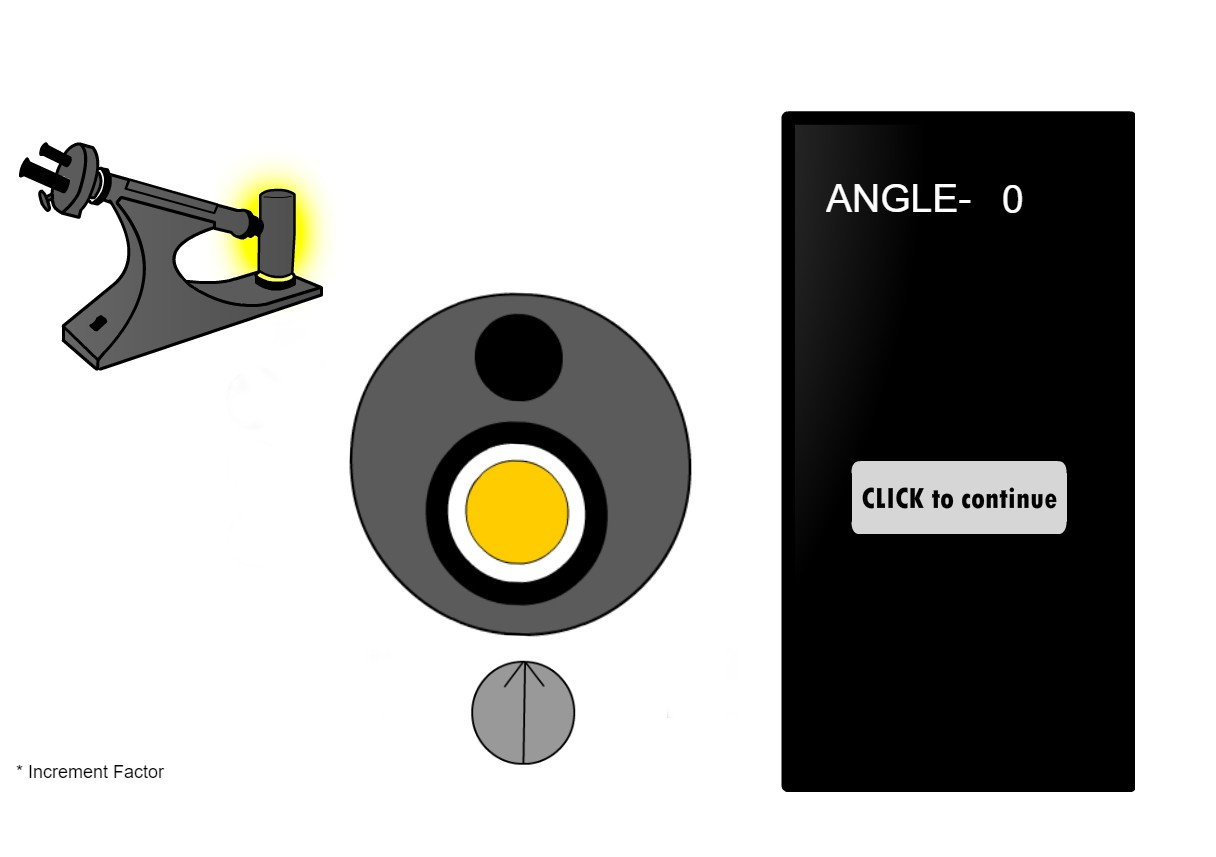
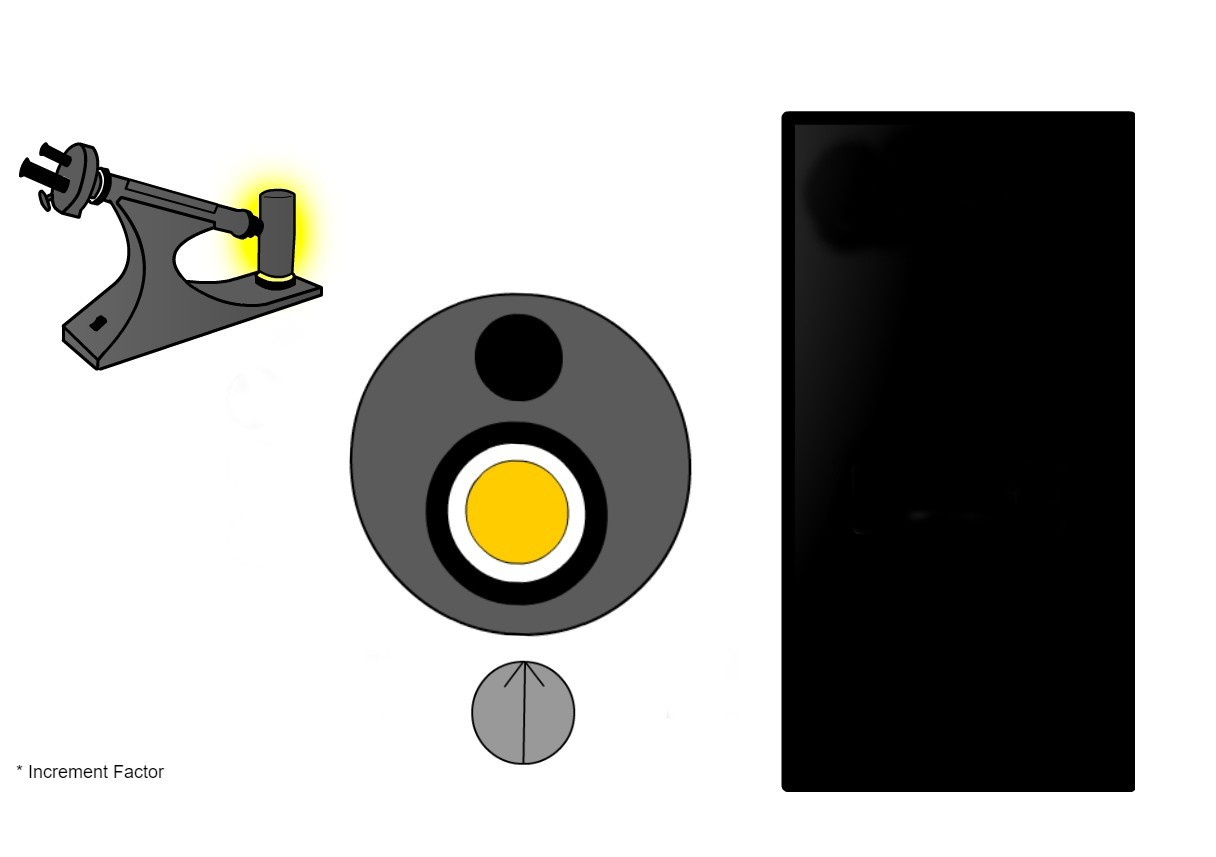
Experiment 1 Completed Except final calculations

Changed region(s): [[0.6875, 0.5158, 0.875, 0.6371], [0.6562, 0.2124, 0.7812, 0.273], [0.8125, 0.2124, 0.8438, 0.2427]]

diff --git a/src/Labs/determine_the_specific_rotation_of_a_sugar_using_a_polarimeter/exp.js b/src/Labs/determine_the_specific_rotation_of_a_sugar_using_a_polarimeter/exp.js
@@ -12,7 +12,6 @@ cursorPointers("cap")
 cursorPointers("click")
 cursorPointers("click1")
 
-
 function firstClick(id1) {
 	document.getElementById(id1).addEventListener('click', function () {
 		document.getElementById("know").style.visibility = "hidden";
@@ -69,12 +68,12 @@ zoomImg("coor2", "light", "images/light.png");
 zoomImg("coor2", "cap", "images/cap.svg")
 zoomImg("cap", "final", "images/final.png")
 zoomImg("cap", "click", "images/click.png")
-zoomImg("click", "last", "images/last.png")
-zoomImg("click", "click1", "images/click1.jpg")
+// szoomImg("click", "last", "images/last.png")
+// zoomImg("click", "click1", "images/click1.jpg")
 zoomImg("proceed", "sols", "images/sols.png")
 // zoomImg("coor3", "zoomsol", "images/zoomsol.png")
 // zoomImg("coor4", "zoomsol", "images/zoomsol.png")
-zoomImg("zoomsol", "beaker", "images/beaker.png")
+//zoomImg("zoomsol", "beaker", "images/beaker.png")
 zoomImg("coord1", "zoomsol", "images/zoomsol.png")
 zoomImg("coord2", "zoomsol", "images/zoomsol.png")
 zoomImg("coord3", "zoomsol", "images/zoomsol.png")
@@ -106,11 +105,10 @@ document.getElementById("cap").onclick = function () {
 	document.getElementById("cap").style.visibility = "hidden"
 	document.getElementById("light").style.visibility = "hidden"
 }
-document.getElementById("click").onclick = function () {
-	document.getElementById("final").style.visibility = "hidden"
-	document.getElementById("click").style.visibility = "hidden"
-	window.location.href('./1.html');
-}
+// document.getElementById("click").onclick = function () {
+// 	// document.getElementById("final").style.visibility = "hidden"
+// 	// document.getElementById("click").style.visibility = "hidden"
+// }
 function clickSols(id1) {
 	document.getElementById(id1).addEventListener('click', function () {
 		document.getElementById("sols").style.visibility = "hidden";
@@ -125,14 +123,20 @@ clickSols("coord6")
 var first, second;
 function showdata(id1, num) {
 	document.getElementById(id1).addEventListener('click', function () {
-		document.getElementById("demo").innerHTML = num
+		document.getElementById("demo").innerHTML = "Unknow Sample No " + num + " Selected!"
 		swal("Please Enter Concentration:", {
 			content: "input",
 		})
 			.then((value) => {
-				document.getElementById('next3').innerHTML = value
+				document.getElementById('next3').innerHTML = "Concentration:  " + value + " ml";
+				localStorage.setItem("conc", value)
+				localStorage.setItem("samplenum", num)
+
 			});
-		//document.getElementById('next3').visibility = "visible";
+		document.getElementById('next3').style.visibility = "visible";
+		document.getElementById('next5').style.visibility = "visible";
+
+
 		//console.log(first)
 
 
@@ -148,6 +152,15 @@ showdata("coord3", 4)
 showdata("coord2", 2)
 showdata("coord1", 1)
 // document.getElementById("demo1").innerHTML="Max Sugar conc. allowed or this sugar(g/100ml)=108."
-document.getElementById("zoomsol").onclick = function () {
+document.getElementById("next5").onclick = function () {
+	document.getElementById('beaker').src = "./images/beaker.png"
 	document.getElementById("zoomsol").style.visibility = "hidden"
+	document.getElementById('next4').style.visibility = "visible";
+	swal("Please Enter Cell Size:(8ml/10ml)", {
+		content: "input",
+	})
+		.then((value) => {
+			localStorage.setItem("cell", value)
+
+		});
 }

diff --git a/src/Labs/determine_the_specific_rotation_of_a_sugar_using_a_polarimeter/2.html b/src/Labs/determine_the_specific_rotation_of_a_sugar_using_a_polarimeter/2.html
@@ -30,7 +30,10 @@
     <style>
       #a,
       #b,
-      #c {
+      #c,
+      #c3,
+      #c2,
+      #c4 {
         position: fixed;
       }
       #b {
@@ -41,6 +44,21 @@
         color: #efefef;
         left: 840px;
         top: 395px;
+      }
+      #c2 {
+        color: #efefef;
+        left: 840px;
+        top: 300px;
+      }
+      #c3 {
+        color: #efefef;
+        left: 840px;
+        top: 200px;
+      }
+      #c4 {
+        color: #efefef;
+        left: 840px;
+        top: 130px;
       }
       .btn {
         border: none;
@@ -95,7 +113,10 @@
         <area shape="rect" coords="830,450,1100,550" href="google.com" />
       </map>
       <img src="./images/1 .jpg" id="a" usemap="#test" />
-      <h1 id="c"></h1>
+      <h3 id="c"></h3>
+      <h3 id="c2"></h3>
+      <h3 id="c3"></h3>
+      <h3 id="c4"></h3>
 
       <img src="./images/2.jpg" id="b" />
       <div class="div-position">
@@ -117,6 +138,10 @@
     </div>
 
     <script>
+      var varb1 = localStorage.getItem("conc");
+      var varb2 = localStorage.getItem("samplenum");
+      var varb3 = localStorage.getItem("cell");
+
       var ones = 0,
         fives = 0,
         tens = 0;
@@ -225,6 +250,11 @@
         }
         degrees = d2;
       }
+      var temp1 = localStorage.getItem("conc");
+      var temp2 = localStorage.getItem("samplenum");
+      document.getElementById("c2").innerHTML = "Concentration: " + temp1;
+      document.getElementById("c3").innerHTML = " Sample Number: " + temp2;
+      document.getElementById("c4").innerHTML = " Cell Size: " + varb3;
     </script>
   </body>
 </html>

diff --git a/src/Labs/determine_the_specific_rotation_of_a_sugar_using_a_polarimeter/exp.html b/src/Labs/determine_the_specific_rotation_of_a_sugar_using_a_polarimeter/exp.html
@@ -85,7 +85,7 @@
           <img id="light" usemap="#light1"/>
           <img id="cap" usemap="#caph"/>
           <img id="final"/>
-          <img id="click"/>
+          <img id="click" onclick="window.location.href = './1.html';"/>
           <img id="last"/>
           <img id="click1"/>
           <!-- <map name="exp">
@@ -109,13 +109,17 @@
           <div id="demo"></div>
           <div class="buttons">
 <h3 id="next3"></h3>
+
+<button class="btn btn-success" id="next5" style="position: fixed; transform:translate(760px,450px); visibility:hidden" > Beaker</button>
           </div>
           <!-- <input id="text">
           <div id="demo1"> -->
+            <img src="./gifs/diag.gif" width="100px" height="100px" style="position: fixed; transform:translate(300px,490px)" id="next4">
             <div class="div-pos" style="position: fixed;"id="next1">
+              
               <svg width=600 height=1000>
 
-           <rect width=170 height=20 fill=red  onclick="window.location.href='./1.html'" id="next2"></rect>
+           <rect width=170 height=40 fill=red  onclick="window.location.href='./2.html'" id="next2"></rect>
 
 
 

diff --git a/src/Labs/determine_the_specific_rotation_of_a_sugar_using_a_polarimeter/exp.css b/src/Labs/determine_the_specific_rotation_of_a_sugar_using_a_polarimeter/exp.css
@@ -110,6 +110,7 @@ height:75%;*/
   left: 20px;
   top: 125px;
   position: relative;
+  font-size: 18px;
 }
 #text {
   margin-left: 750px;
@@ -135,15 +136,19 @@ height:75%;*/
   position: absolute;
 }
 #next1 {
-  transform: translate(180px, 550px);
+  transform: translate(200px, 545px);
 }
 #next2 {
-  transform: translate(70px, 20px);
-  transform: rotate(14deg);
+  transform: rotate(11deg);
+  opacity: 0%;
+  cursor: pointer;
 }
 #next3 {
   color: white;
-  /* visibility: hidden; */
+  visibility: hidden;
   position: fixed;
   transform: translate(700px, 300px);
+}
+#next4 {
+  visibility: hidden;
 }
